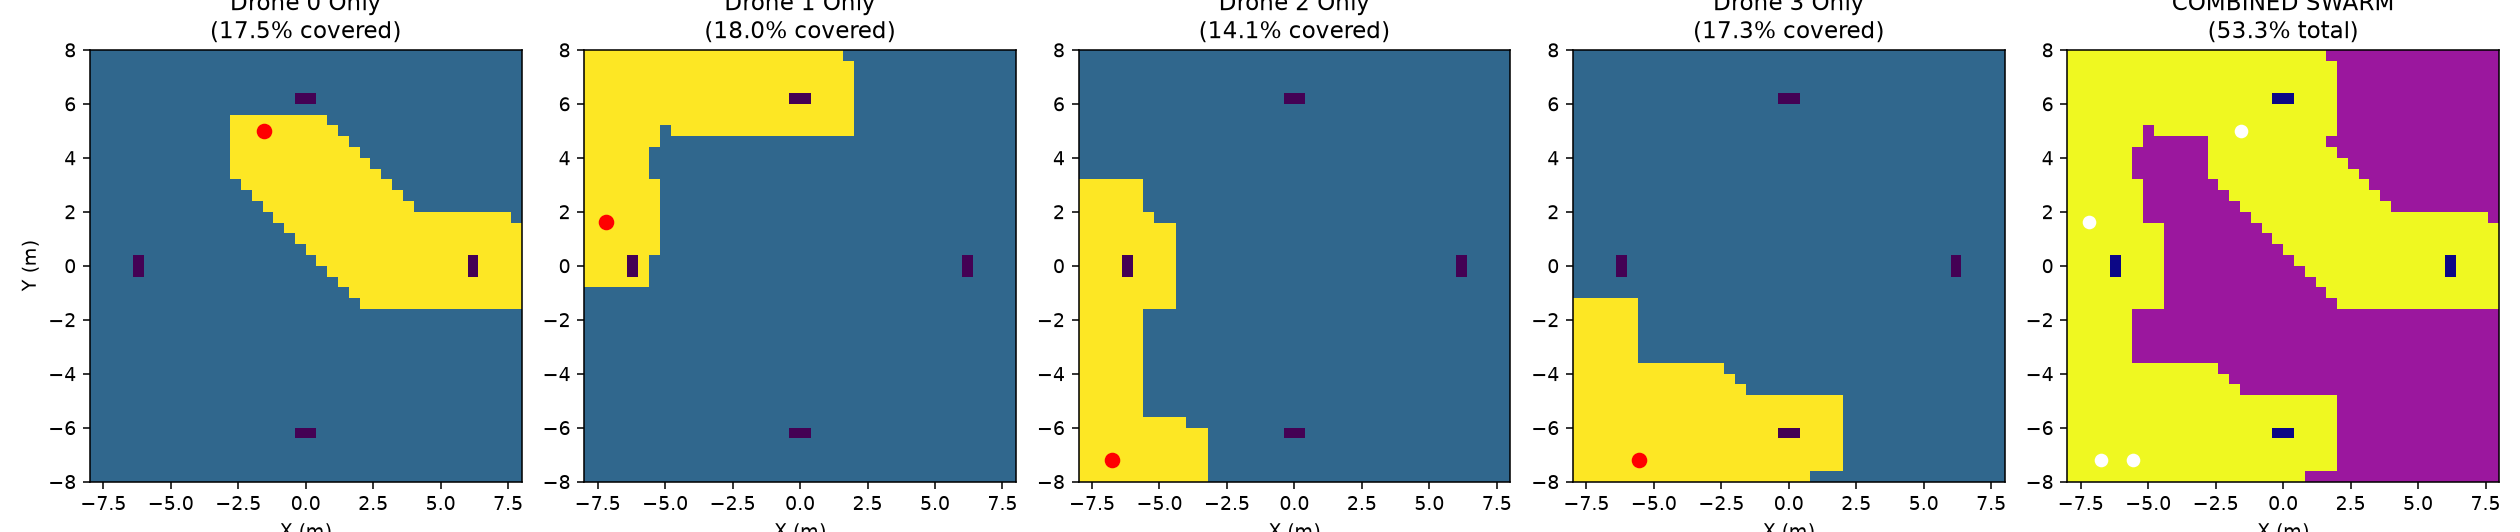
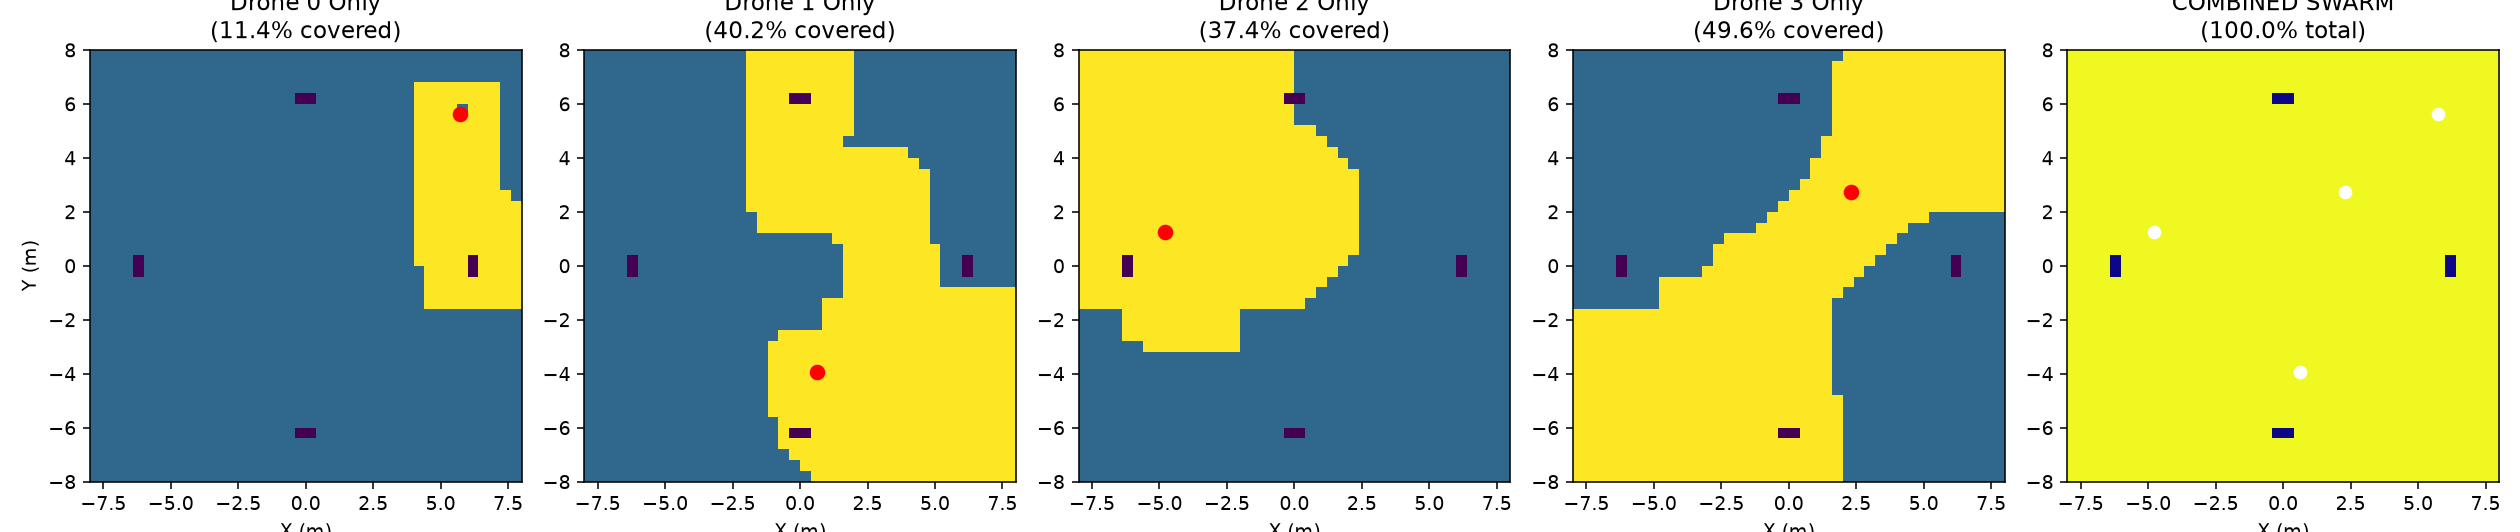
testing with voronoi

diff --git a/swarm_coverage.py b/swarm_coverage.py
@@ -404,8 +404,8 @@ def voronoi_coverage(
     ]
 
     # 4. Blend global centroid pull with local sweep target and enforce obstacle clearance
-    blended_target_xy = (0.30 * weighted_voronoi_centroid) + (
-        0.70 * best_local_sweep_position
+    blended_target_xy = (0.10 * weighted_voronoi_centroid) + (
+        0.90 * best_local_sweep_position
     )
     safe_target_xy = apply_obstacle_clearance(blended_target_xy, grid)
 

diff --git a/uncertainty_theory.md b/uncertainty_theory.md
@@ -1,0 +1,95 @@
+In robotics and autonomous exploration, **uncertainty** is a continuous numerical measure of **how much information the swarm is still missing** about a specific location in the environment.
+
+Instead of treating the map as a simple binary checklist (`True` = visited, `False` = unvisited), each drone $i$ maintains a local **belief grid** $u_i(q) \in [0.05, 1.0]$ for every cell $q$ in the arena, where `1.0` means *"completely unknown"* and `0.05` means *"thoroughly observed with high confidence"*.
+
+---
+
+## 1. How Uncertainty Works in Your Simulation
+
+In `CoverageGrid` (`drone_belief_uncertainty`), each drone's local uncertainty map is driven by three rules:
+
+* **Initialization & Obstacles:** At $t = 0$, every traversable ground cell starts at $u_i(q) = 1.0$, while cells occupied by 3D buildings are permanently set to $0.0$ so drones never waste effort trying to scan inside walls.
+
+
+* **Sensor Observation Decay:** Whenever drone $i$'s camera has an unoccluded line of sight to cell $q$, its uncertainty drops multiplicatively by `decay_rate = 0.25`:
+
+$$u_i(q) \leftarrow \max\big(0.05,\; u_i(q) \cdot (1 - 0.25)\big)$$
+
+
+
+A single fleeting glance reduces uncertainty from $1.0 \to 0.75$, whereas hovering or making multiple overlapping passes drives it down toward $0.05$.
+
+
+* **Peer-to-Peer Map Merging:** Whenever two active drones $i$ and $j$ are within radio range (`comm_radius`), they synchronize their belief maps using an element-wise minimum:
+
+$$u_i(q) = u_j(q) = \min\big(u_i(q),\, u_j(q)\big)$$
+
+
+
+This ensures both drones immediately know which areas the other has already scanned.
+
+
+
+---
+
+## 2. Why Uncertainty Matters (5 Core Reasons)
+
+### 1. It Creates Smooth Gradients for Optimization & RL
+
+A binary (`0` or `1`) map is mathematically flat almost everywhere—either a region is `1` or it is `0`. Continuous uncertainty creates a **smooth potential landscape**:
+
+* **Voronoi Centroids:** Weighting each cell by $u_i(q)^3$ pulls the drone's center of mass smoothly toward the densest pockets of unexplored space.
+
+
+* **Frontier Information Gain:** Summing $u_i(q)$ inside a candidate's camera footprint rewards viewpoints that cover *many* high-uncertainty cells simultaneously rather than chasing isolated single pixels.
+
+
+* **RL Neural Networks:** Pooling the $40 \times 40$ uncertainty grid into a $10 \times 10$ feature map gives the PPO policy network a continuous gradient showing which sectors are partially scanned versus untouched.
+
+
+
+### 2. It Models Real Sensor Quality (Crucial for SLAM & 3D Reconstruction)
+
+In real-world vision (and in your SLAM data extractor), a single camera frame from a distance or steep angle produces noisy depth estimates. Requiring multiple observations to drive $u_i(q)$ from $1.0 \to 0.05$ mirrors **Bayesian occupancy mapping** and **Shannon entropy reduction**: the swarm naturally prioritizes revisiting areas that were only briefly glimpsed until reconstruction confidence is high.
+
+### 3. Conflict-Free Distributed Synchronization (Computer Engineering Perspective)
+
+As a computer engineer, notice that the P2P merge operator $f(a, b) = \min(a, b)$ has three special algebraic properties:
+
+* **Commutative:** $\min(u_i, u_j) = \min(u_j, u_i)$
+* **Associative:** $\min(\min(u_i, u_j), u_k) = \min(u_i, \min(u_j, u_k))$
+* **Idempotent:** $\min(u_i, u_i) = u_i$
+
+In distributed systems, this makes the uncertainty map a **State-Based CRDT (Conflict-Free Replicated Data Type)**. Drones can drop packets, go out of radio range, reconnect out of order, or lose a teammate without needing consensus protocols (like Raft or Paxos) or central locks—every merge is guaranteed to converge cleanly without double-counting.
+
+### 4. Fault Tolerance When a Drone Fails
+
+Notice the distinction between `drone_sole_visited` (ground-truth audit log of what each drone physically saw) and `drone_belief_uncertainty` (each drone's working memory). When Drone 0 fails at step 500, its survivors no longer receive updates from it, **but because they merged belief maps while Drone 0 was alive**, they already have $u_i(q) \approx 0.05$ for the corners Drone 0 finished and $u_i(q) = 1.0$ for the corners it hadn't reached yet. Survivors only take over the unfinished work.
+
+### 5. Generalization to Dynamic / Persistent Monitoring
+
+In static mapping, once a cell is scanned, you never need to return. In real research scenarios—such as **wildfire spread tracking, search-and-rescue, or security patrol**—information goes stale over time. By adding a single line to `update_from_cameras()` that slowly increases uncertainty every step ($u_i(q) \leftarrow \min(1.0, u_i(q) + \epsilon)$), the exact same Voronoi, Frontier, and RL algorithms automatically transition from **one-time exploration** into **continuous persistent patrol**.
+
+---
+
+## Binary Coverage vs. Continuous Uncertainty
+
+| Property | Binary Visited Grid (`True` / `False`) | Continuous Uncertainty Map ($u_i(q) \in [0.05, 1.0]$) |
+| --- | --- | --- |
+| **Mathematical Meaning** | Set membership (covered vs. uncovered) | Information entropy / estimation variance |
+| **Sensor Model** | Idealized "one-glance" binary detection | Multi-view confidence accumulation |
+| **Optimization Landscape** | Step function (zero gradient inside regions) | Smooth gradient for centroids, utility, & RL |
+| **Dynamic Environments** | Cannot represent stale/changing areas | Supports temporal decay ("forgetting rate") |
+| **Distributed Merging** | Logical `OR` (loses confidence nuance) | `min(u_i, u_j)` CRDT (preserves confidence) |
+
+---
+
+### How to Experiment With This in Your Code
+
+If you want to test how uncertainty shapes swarm behavior in your research:
+
+1. **Test Persistent Patrol:** Add `self.drone_belief_uncertainty[self.free_cells] = np.minimum(1.0, self.drone_belief_uncertainty[self.free_cells] + 0.001)` at the start of `update_from_cameras()` in `swarm_coverage.py` and watch how `voronoi` and `frontier` continuously circulate to re-verify stale areas.
+
+
+2. **Test Communication Blackouts:** Lower `comm_radius` from `9.0` to `3.0` in `DroneState`. Because drones only merge uncertainty maps when within `3.0 m`, you can measure how limited bandwidth affects duplicate exploration and recovery time after a drone failure.
+3. 
